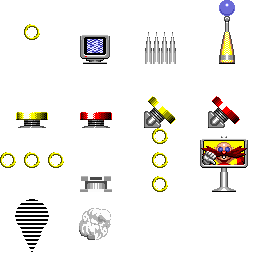
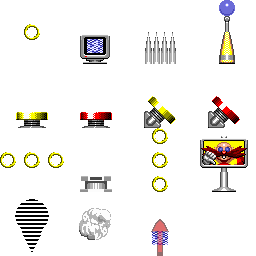
Add monitor image behaviour, change debug mode cycling on level

Changed region(s): [[0.5938, 0.8438, 0.6562, 1.0]]

diff --git a/assets/levels/COMMON/objects_common.tsx b/assets/levels/COMMON/objects_common.tsx
@@ -50,4 +50,5 @@
  <tile id="11" type="goal_sign"/>
  <tile id="12" type="startpos"/>
  <tile id="13" type="explosion"/>
+ <tile id="14" type="monitor_image"/>
 </tileset>

diff --git a/src/object_state_update.c b/src/object_state_update.c
@@ -43,6 +43,7 @@ static void _spring_diagonal_update(ObjectState *state, ObjectTableEntry *, VECT
 static void _checkpoint_update(ObjectState *state, ObjectTableEntry *, VECTOR *pos);
 static void _spikes_update(ObjectState *state, ObjectTableEntry *, VECTOR *pos);
 static void _explosion_update(ObjectState *state, ObjectTableEntry *, VECTOR *);
+static void _monitor_image_update(ObjectState *state, ObjectTableEntry *, VECTOR *);
 
 // Player hitbox information. Calculated once per frame.
 static int32_t player_vx, player_vy; // Top left corner of player hitbox
@@ -102,6 +103,7 @@ object_update(ObjectState *state, ObjectTableEntry *typedata, VECTOR *pos)
     case OBJ_CHECKPOINT:             _checkpoint_update(state, typedata, pos);         break;
     case OBJ_SPIKES:                 _spikes_update(state, typedata, pos);             break;
     case OBJ_EXPLOSION:              _explosion_update(state, typedata, pos);          break;
+    case OBJ_MONITOR_IMAGE:          _monitor_image_update(state, typedata, pos);      break;
     }
 }
 
@@ -226,7 +228,7 @@ _goal_sign_update(ObjectState *state, ObjectTableEntry *, VECTOR *pos)
 }
 
 static void
-_monitor_update(ObjectState *state, ObjectTableEntry *, VECTOR *pos)
+_monitor_update(ObjectState *state, ObjectTableEntry *entry, VECTOR *pos)
 {
     if(state->anim_state.animation == 0) {
         // Calculate solidity
@@ -255,13 +257,12 @@ _monitor_update(ObjectState *state, ObjectTableEntry *, VECTOR *pos)
                 explosion->freepos.vy = (pos->vy << 12);
                 explosion->state.anim_state.animation = 0; // Small explosion
 
-                // TODO: This should be the behaviour of our monitor particles
-                switch(((MonitorExtra *)state->extra)->kind) {
-                case MONITOR_KIND_RING:
-                    level_ring_count += 10;
-                    break;
-                default: break;
-                }
+                // Create monitor image object.
+                // Account for fragment offset as well.
+                PoolObject *image = object_pool_create(OBJ_MONITOR_IMAGE);
+                image->freepos.vx = (pos->vx << 12) + ((int32_t)entry->fragment->offsetx << 12);
+                image->freepos.vy = (pos->vy << 12) + ((int32_t)entry->fragment->offsety << 12);
+                image->state.anim_state.animation = ((MonitorExtra *)state->extra)->kind;
 
                 if(!player.grnd && player.vel.vy > 0) {
                     player.vel.vy *= -1;
@@ -512,4 +513,25 @@ _explosion_update(ObjectState *state, ObjectTableEntry *, VECTOR *)
     // If so, destroy.
     if(state->anim_state.animation == OBJ_ANIMATION_NO_ANIMATION)
         state->props |= OBJ_FLAG_DESTROYED;
+}
+
+
+static void
+_monitor_image_update(ObjectState *state, ObjectTableEntry *, VECTOR *)
+{
+    state->timer++;
+
+    // Monitor images ascend for 15 frames, then stay still for 15 more
+    if(state->timer <= 15) state->freepos->vy -= (ONE << 1);
+    if(state->timer > 30) {
+        state->props |= OBJ_FLAG_DESTROYED;
+
+        switch(state->anim_state.animation) {
+        case MONITOR_KIND_RING:
+            sound_play_vag(sfx_ring, 0);
+            level_ring_count += 10;
+            break;
+        default: break;
+        }
+    }
 }

diff --git a/src/screen_level.c b/src/screen_level.c
@@ -135,9 +135,14 @@ screen_level_update(void *d)
 {
     screen_level_data *data = (screen_level_data *)d;
 
-    if((pad_pressing(PAD_L1) && pad_pressed(PAD_R1)) ||
-       (pad_pressed(PAD_L1) && pad_pressing(PAD_R1))) {
-        debug_mode = (debug_mode + 1) % 3;
+    // Debug mode cycling
+    {
+        if(pad_pressing(PAD_L1) && pad_pressed(PAD_R1))
+            debug_mode++;
+        else if(pad_pressed(PAD_L1) && pad_pressing(PAD_R1))
+            debug_mode--;
+        if(debug_mode > 2) debug_mode = 0;
+        else if(debug_mode < 0) debug_mode = 2;
     }
 
     level_set_clearcolor();
@@ -311,7 +316,7 @@ screen_level_draw(void *d)
     }
 
     // Heads-up display
-    if(debug_mode <= 1) {
+    if(!debug_mode) {
         font_set_color(
             LERPC(level_fade, 0xc8),
             LERPC(level_fade, 0xc8),
@@ -362,35 +367,40 @@ screen_level_draw(void *d)
                  GetVideoMode() == MODE_PAL ? "PAL" : "NTSC", get_frame_rate());
         font_draw_sm(buffer, 248, 12);
 
-        if(debug_mode > 1) {
-            // Sound debug
-            uint32_t elapsed_sectors;
-            sound_xa_get_elapsed_sectors(&elapsed_sectors);
-            snprintf(buffer, 255, "%08u", elapsed_sectors);
-            font_draw_sm(buffer, 248, 20);
+        // Sound debug
+        uint32_t elapsed_sectors;
+        sound_xa_get_elapsed_sectors(&elapsed_sectors);
+        snprintf(buffer, 255, "%08u", elapsed_sectors);
+        font_draw_sm(buffer, 248, 20);
 
-            // Free object debug
-            snprintf(buffer, 255, "OBJS %3d", object_pool_get_count());
-            font_draw_sm(buffer, 248, 28);
+        // Free object debug
+        snprintf(buffer, 255, "OBJS %3d", object_pool_get_count());
+        font_draw_sm(buffer, 248, 28);
 
-            // Player debug
-            snprintf(buffer, 255,
-                     "GSP %08x\n"
-                     "SPD %08x %08x\n"
-                     "ANG %04x\n"
-                     "POS %08x %08x\n"
-                     "ACT %02u\n"
-                     "REV %08x\n"
-                     ,
-                     player.vel.vz,
-                     player.vel.vx, player.vel.vy,
-                     player.angle,
-                     player.pos.vx, player.pos.vy,
-                     player.action,
-                     player.spinrev
-                );
-            font_draw_sm(buffer, 8, 12);
-        }
+        // Rings and time, for convenience
+        snprintf(buffer, 255, "RING %03d", level_ring_count);
+        font_draw_sm(buffer, 248, 36);
+
+        snprintf(buffer, 255, "TIME %03d", (get_elapsed_frames() / 60));
+        font_draw_sm(buffer, 248, 44);
+
+        // Player debug
+        snprintf(buffer, 255,
+                 "GSP %08x\n"
+                 "SPD %08x %08x\n"
+                 "ANG %04x\n"
+                 "POS %08x %08x\n"
+                 "ACT %02u\n"
+                 "REV %08x\n"
+                 ,
+                 player.vel.vz,
+                 player.vel.vx, player.vel.vy,
+                 player.angle,
+                 player.pos.vx, player.pos.vy,
+                 player.action,
+                 player.spinrev
+            );
+        font_draw_sm(buffer, 8, 12);
     }
 }
 

diff --git a/tools/cookobj/datatypes.py b/tools/cookobj/datatypes.py
@@ -41,6 +41,7 @@ class ObjectId(Enum):
     # This happens when the object in question is a particle
     # or effect.
     EXPLOSION = 0x0a
+    MONITOR_IMAGE = 0x0b
 
     @staticmethod
     def get(name):
@@ -56,6 +57,7 @@ class ObjectId(Enum):
             "goal_sign": ObjectId.GOAL_SIGN,
             "switch": ObjectId.SWITCH,
             "explosion": ObjectId.EXPLOSION,
+            "monitor_image": ObjectId.MONITOR_IMAGE,
         }
         result = switch.get(name.lower())
         assert result is not None, f"Unknown common object {name}"

diff --git a/include/object.h b/include/object.h
@@ -25,6 +25,7 @@ typedef enum {
     OBJ_SWITCH                 = 0x08,
     OBJ_GOAL_SIGN              = 0x09,
     OBJ_EXPLOSION              = 0x0a,
+    OBJ_MONITOR_IMAGE          = 0x0b,
 } ObjectType;
 
 #define MASK_FLIP_FLIPX  0x1 // Flip on X axis
